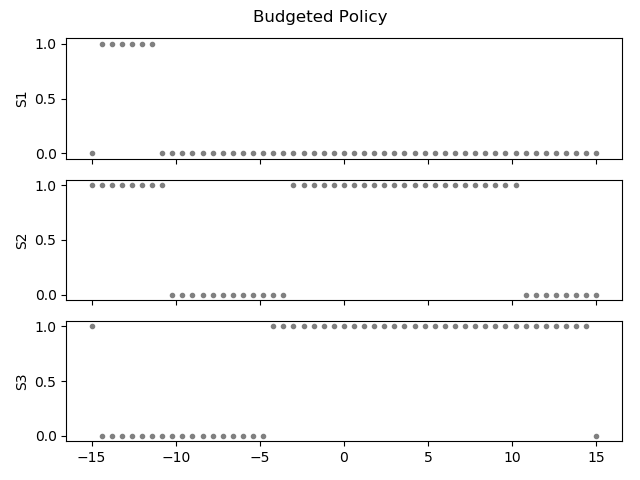
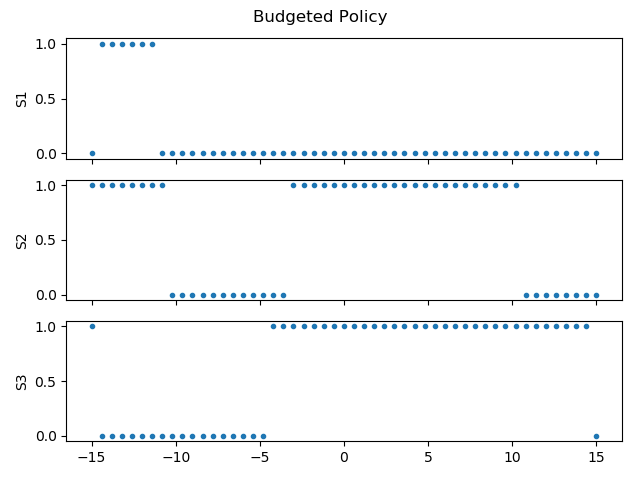
Grafica de politica por estado.

diff --git a/agents/helpers/c51.py b/agents/helpers/c51.py
@@ -113,7 +113,7 @@ class C51Agent:
 
         return action_idx
 
-    def plot_policy(self, states_z_concat, qs, states_labels):
+    def plot_policy(self, states_labels, states_z_concat, qs, budget_qs, probs_of_alive):
         """
         Creates a policy plot for c51 for any given budget in the support
         :param states_z_concat: z predictions. Shape (states, actions, num_atoms)
@@ -123,12 +123,14 @@ class C51Agent:
         """
 
         # calculates prob of being alive and the action with the largest prob
-        prob_max_args = np.argmax(1 - np.cumsum(states_z_concat, axis=2),
-                                  axis=1)
+        maxarg_probs_of_alive = np.argmax(probs_of_alive, axis=1)
+        print(maxarg_probs_of_alive.shape)
+        maxarg_budget_qs = np.argmax(budget_qs, axis=1)
+        print(maxarg_budget_qs.shape)
+        maxarg_qs = np.argmax(qs, axis=1)
+        print(maxarg_qs.shape)
 
-        sys.exit(0)
-
-        num_states = prob_max_args.shape[0]
+        num_states = maxarg_probs_of_alive.shape[0]
 
         # plots safe policy ----------------------------------------------------
         fig, ax = plt.subplots(nrows=3, sharex=True, sharey=True)
@@ -136,8 +138,8 @@ class C51Agent:
 
         for i in range(num_states):
             print(i, states_labels[i])
-            ax[i].plot(self.z, prob_max_args[i, ::-1], color='gray',
-                       marker='.', linestyle='None')
+            ax[i].plot(self.z, maxarg_probs_of_alive[i, ::-1], linestyle='None', marker='.')
+            ax[i].plot(self.z, maxarg_budget_qs[i, ::-1], linestyle='None')
             ax[i].set_ylabel('S' + str(states_labels[i]))
         fig.tight_layout()
         plt.subplots_adjust(top=0.92)
@@ -159,6 +161,8 @@ class C51Agent:
         fig.tight_layout()
         plt.savefig('results/policy_q.png')
 
+        input("XXX")
+
     def get_optimal_action(self, state, budget=4.0, rp=0.00):
         """Get optimal action for a state accounting for budget and
         the probability of running out of it. As Michael proposed.
@@ -169,7 +173,7 @@ class C51Agent:
 
         # get the index of the first bin where v is larger than -b
         index = np.searchsorted(self.z, -budget) - 1
-
+        # get the value for a specific budget
         budget_q = budget_q[:, index]
 
         # action_id is the max arg of the modified q value
@@ -217,14 +221,21 @@ class C51Agent:
         return z_concat, q, budget_q, prob_live_given_b
 
     def plot_histogram(self, state, verbose=True):
-        z_concat, q, _, _ = self.predict(state)
+        z_concat, q, budget_q, prob_live_given_b = self.predict(state)
         if verbose:
             print("=q")
             print(q)
             action_idx = np.argmax(q)
             print("=q_arg_max")
             print(action_idx)
-        self.real_time_plotter.update(np.array(self.z), z_concat)
+        self.real_time_plotter.update(
+            np.array(self.z),
+            [
+                z_concat,
+                budget_q,
+                prob_live_given_b,
+                np.stack(([q] * self.num_atoms), axis=1)
+            ])
 
     def shape_reward(self, r_t, misc, prev_misc, t, is_terminated):
 

diff --git a/agents/helpers/plot_histogram.py b/agents/helpers/plot_histogram.py
@@ -30,8 +30,8 @@ class PlotHistogramRT:
         new_y = np.asarray(new_y)
 
         # valida que las medidas nuevas sean las mismas que las establecidas en el constructor
-        if new_y.shape[0] != self.series_number \
-                or new_y.shape[1] != self.bins \
+        if new_y.shape[1] != self.series_number \
+                or new_y.shape[2] != self.bins \
                 or new_x.shape[0] != self.bins:
             raise ValueError('Incorrect new_y or new_x shape')
 
@@ -40,28 +40,40 @@ class PlotHistogramRT:
         fig = plt.figure(self.this_fig_num)
         plt.clf()
 
-        ax1 = plt.subplot(3, 1, 1)
-        for ind in range(len(new_y)):
-            plt.bar(new_x, new_y[ind], width=self.width, label=self.label_names[ind])
+        ax1 = plt.subplot(4, 1, 1)
+        for ind in range(len(new_y[0])):
+            plt.bar(new_x, new_y[0][ind], width=self.width, label=self.label_names[ind])
         plt.grid(True)
         plt.ylabel('c51')
 
-        ax2 = plt.subplot(3, 1, 2)
-        for ind in range(len(new_y)):
-            plt.plot(new_x, np.cumsum(new_y[ind]),
+        ax2 = plt.subplot(4, 1, 2)
+        for ind in range(len(new_y[0])):
+            plt.plot(new_x, np.cumsum(new_y[0][ind]),
                     label=self.label_names[ind])
         plt.grid(True)
         plt.ylabel('CDF')
 
         # prob of alive given b
-        ax3 = plt.subplot(3, 1, 3)
-        for ind in range(len(new_y)):
-            plt.plot(-1 * new_x, 1 - np.cumsum(new_y[ind]),
+        ax3 = plt.subplot(4, 1, 3)
+        for ind in range(len(new_y[0])):
+            plt.plot(-1 * new_x, new_y[2][ind],
                      label=self.label_names[ind])
         plt.grid(True)
         plt.ylabel('Pr(A|B)')
-
         plt.legend()
+
+        ax3_a = plt.subplot(4, 1, 4)
+        ax3_b = ax3_a.twinx()
+        for ind in range(len(new_y[0])):
+            # modified q values
+            ax3_b.plot(-1 * new_x, new_y[3][ind], linestyle='--')
+            ax3_b.set_ylabel('Q')
+            # q values
+            ax3_a.plot(-1 * new_x, new_y[1][ind])
+            ax3_a.set_ylabel('Budget Q')
+        plt.grid(True)
+
+
 
         fig.canvas.draw()
         plt.tight_layout(pad=0.4, w_pad=0.4, h_pad=0.4)

diff --git a/agents/c51_grid_agent.py b/agents/c51_grid_agent.py
@@ -115,15 +115,21 @@ class C51GridAgent:
         """
         predictions = []
         qs = []
+        budget_qs = []
+        probs_of_alive = []
         for s in range(len(int_states)):
             # creates a prediction to plot policies
             prediction = self.agent.predict(self.process_state(int_states[s]))
             predictions.append(prediction[0])
             qs.append(prediction[1])
+            budget_qs.append(prediction[2])
+            probs_of_alive.append(prediction[3])
         # fills arrays
         predictions = np.array(predictions)
         qs = np.array(qs)
-        self.agent.plot_policy(predictions, qs, int_states)
+        budget_qs = np.array(budget_qs)
+        probs_of_alive = np.array(probs_of_alive)
+        self.agent.plot_policy(int_states, predictions, qs, budget_qs, probs_of_alive)
 
 
     def run_episode(self, b=0):
@@ -157,9 +163,9 @@ class C51GridAgent:
             self.env.render()
             self.agent.plot_histogram(self.s_t1)
 
-            # self.action_idx = input("action")
+            self.action_idx = input("action")
             # self.action_idx = self.agent.get_action(self.s_t)
-            self.action_idx = self.agent.get_action(self.s_t, current_budget)
+            # self.action_idx = self.agent.get_action(self.s_t, current_budget)
 
             self.a_t[self.action_idx] = 1
             self.obs, self.r_t, self.done, self.misc = self.env.step(self.action_idx)

diff --git a/test.py b/test.py
@@ -3,7 +3,6 @@ import matplotlib.pyplot as plt
 import sys
 
 
-
-a = np.arange(5)
-print(a[0:5:1])
-print(a[::-1])
+a = np.array([1,2])
+a = np.stack(([a] * 4), axis=1)
+print(a)
